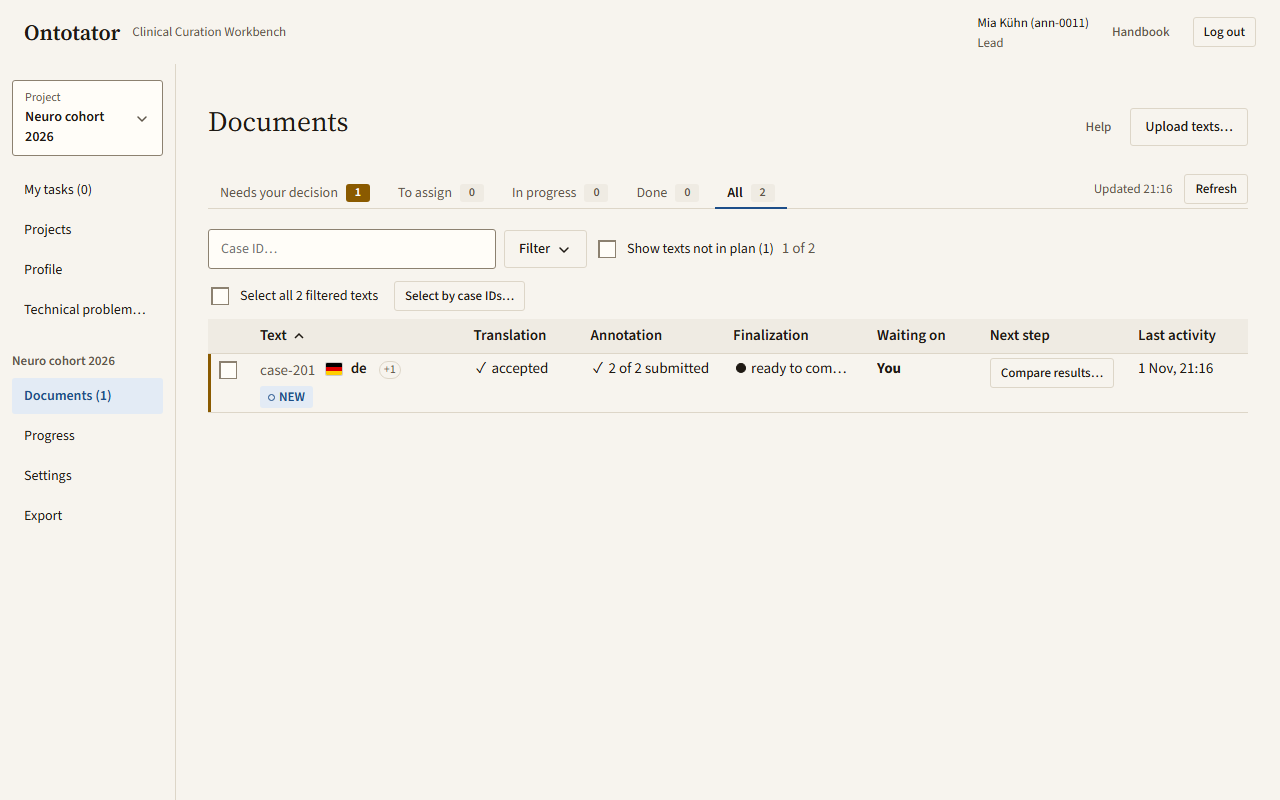
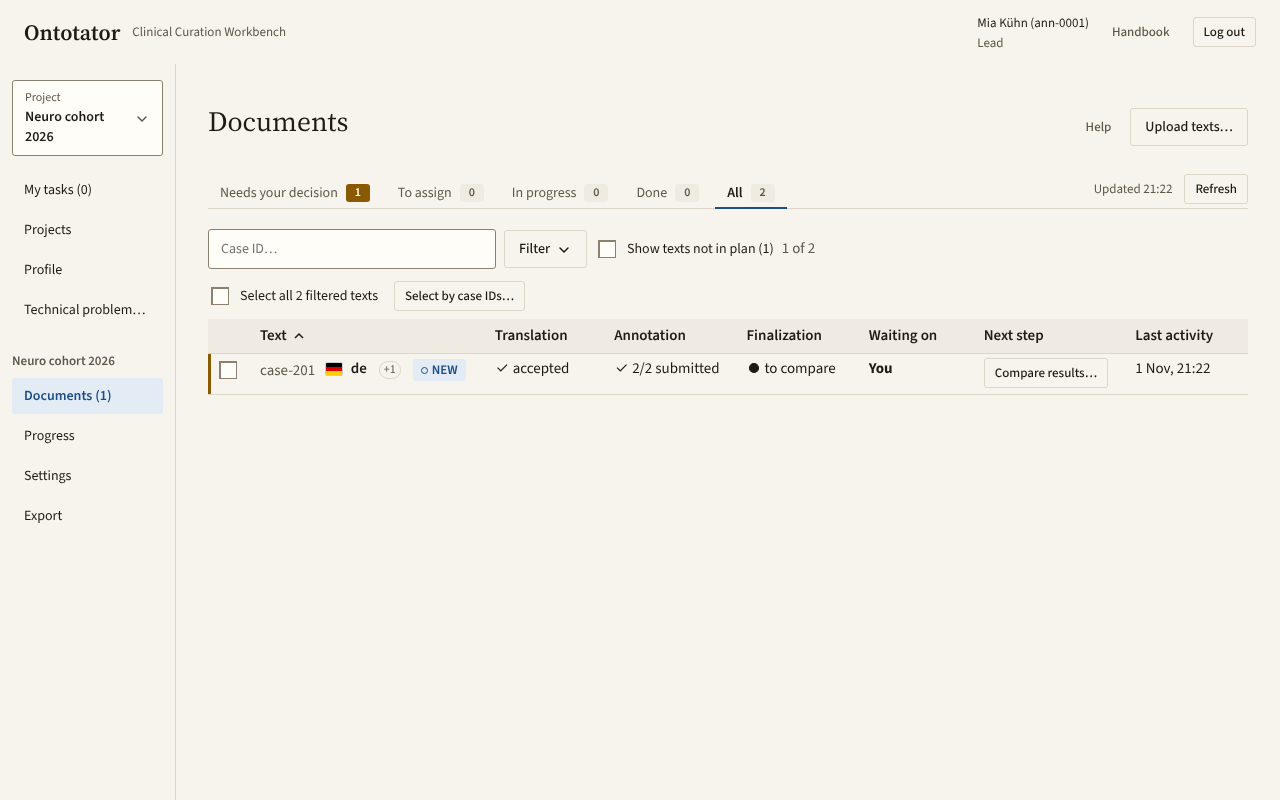
fix(documents): keep every stage state and the text on one line below 1400 px
Every stage state a cell can show that would be cut in the narrow table
now has a short form from one tested mapping (narrowStageState), for
example "1/2 submitted", "to compare" or "on old text"; the title and
screen readers keep the full state as before. The Text cell no longer
wraps "source", the version marker or NEW below the name.

The Annotation count reads "2 of 3 submitted" instead of "2 of 1
submitted" when more people hold a text than "annotators per text"
allows, after the limit was lowered.

The handbook describes the narrow table; its Documents image is
regenerated.

Refs #248

Claude-Session: https://claude.ai/code/session_01DuTmFwNVVtZwP5FB3Y4NFc

diff --git a/frontend/src/documents/stageLabels.ts b/frontend/src/documents/stageLabels.ts
@@ -75,6 +75,39 @@ export function startedPart(detail: StageCellView["detail"]): string | null {
   return state === "none" ? "not started" : `${detail.started ?? 0} of ${detail.open_tasks ?? 0} started`;
 }
 
+/**
+ * "2 of 3 submitted": out of "annotators per text", or out of everyone holding the text when more do (the limit was
+ * lowered after they were assigned), never "2 of 1 submitted". `open` counts the annotate tasks still open.
+ */
+export function submittedOf(submitted: number, total: number, open = 0): string {
+  return `${submitted} of ${Math.max(total, submitted + open)} submitted`;
+}
+
+/**
+ * Shorter words for a stage cell of the narrow table (below 1400 px, issue 248), so the cell keeps one line without
+ * cutting the state; the title and screen readers keep the full state. Only states longer than the narrow cell
+ * have one.
+ */
+const NARROW_STATES: readonly (readonly [RegExp, string])[] = [
+  [/^assigned, not started$/, "not started"],
+  [/^(?:after translation review|waiting for review \(.*\))$/, "after review"],
+  [/^in review, .+$/, "in review"],
+  [/^(\d+) of (\d+) submitted(?:, .+)?$/, "$1/$2 submitted"],
+  [/^(\d+) annotators? · max (\d+)$/, "$1 · max $2"],
+  [/^not reviewed, optional$/, "not reviewed"],
+  [/^(?:Final is|In progress|Submitted|Finishing) on old text$/, "on old text"],
+  [/^Submitted on (v\d+)$/, "$1 submitted"],
+  [/^Finishing on (v\d+)$/, "finishing $1"],
+  [/^ready to compare$/, "to compare"],
+  [/^consolidating \(.+\)$/, "consolidating"],
+];
+
+/** The narrow table's short state (`NARROW_STATES`); null when the state fits as it is. */
+export function narrowStageState(state: string): string | null {
+  for (const [pattern, short] of NARROW_STATES) if (pattern.test(state)) return state.replace(pattern, short);
+  return null;
+}
+
 /** The short form of a person in a cell: the display name, else the pseudonym. */
 export function shortName(person: PersonRefView): string {
   return person.display_name?.trim() || person.pseudonym;
@@ -173,7 +206,7 @@ function annotationText(cell: StageCellView): StageText {
     }
     case "in_progress": {
       if (detail.total != null && detail.submitted != null) {
-        return { symbol: "◐", word: `${detail.submitted} of ${detail.total} submitted`, detail: join(people && `waiting: ${people}`, startedPart(detail), waiting) };
+        return { symbol: "◐", word: submittedOf(detail.submitted, detail.total, detail.open_tasks ?? detail.people?.length), detail: join(people && `waiting: ${people}`, startedPart(detail), waiting) };
       }
       const change = detail.note === "may_change" ? join(version(detail.version), "may change") : null;
       const started = startedOf(detail);
@@ -189,7 +222,7 @@ function annotationText(cell: StageCellView): StageText {
     case "finishing_on_old":
       return { symbol: "◐", word: `Finishing on ${version(detail.from_version) ?? "old text"}`, detail: join(people, `carried to ${version(detail.version) ?? "the new text"} on submit`) };
     case "submitted": {
-      const word = detail.total != null && detail.submitted != null ? `${detail.submitted} of ${detail.total} submitted` : "submitted";
+      const word = detail.total != null && detail.submitted != null ? submittedOf(detail.submitted, detail.total) : "submitted";
       return { symbol: "✓", word, detail: join(people, detail.findings != null ? plural(detail.findings, "finding") : null, waiting) };
     }
     default: return fallback(cell);

diff --git a/frontend/tests/documents/stageLabels.test.ts b/frontend/tests/documents/stageLabels.test.ts
@@ -1,7 +1,7 @@
 // @vitest-environment node
 import { describe, expect, it } from "vitest";
 import type { DocumentRowView, StageCellView } from "../../src/api/client";
-import { STAGE_TITLES, stageText, versionMarkerText, waitingOnText, type StageName } from "../../src/documents/stageLabels";
+import { narrowStageState, STAGE_TITLES, stageText, submittedOf, versionMarkerText, waitingOnText, type StageName } from "../../src/documents/stageLabels";
 import { notInPlanRow, row, stepOf } from "./fixtures";
 import { ana, cell, luc, tom } from "./tableFixtures";
 
@@ -99,6 +99,57 @@ describe("Annotation cell", () => {
   it("submitted", () => {
     expect(text("annotation", cell("submitted", "done", { people: [ana, tom], submitted: 2, total: 2 }))).toEqual(["✓ 2 of 2 submitted", "Ana Weber, Tom Reis"]);
     expect(text("annotation", cell("submitted", "done", { people: [ana], findings: 3, version: 1 }))).toEqual(["✓ submitted", "Ana Weber, 3 findings"]);
+  });
+  it("counts everyone holding the text when the limit was lowered later, never 2 of 1 (issue 248)", () => {
+    expect(text("annotation", cell("in_progress", "running", { people: [tom], submitted: 2, total: 1, started: 0, open_tasks: 1 }))[0]).toBe("◐ 2 of 3 submitted");
+    expect(text("annotation", cell("in_progress", "running", { people: [tom], submitted: 2, total: 1 }))[0]).toBe("◐ 2 of 3 submitted");
+    expect(text("annotation", cell("submitted", "done", { submitted: 2, total: 1 }))[0]).toBe("✓ 2 of 2 submitted");
+    expect(submittedOf(1, 2, 1)).toBe("1 of 2 submitted");
+  });
+});
+
+describe("narrow table states (issue 248)", () => {
+  // Every state a stage cell of the table can show (cardModel's states and the stage cell labels it falls back to).
+  const states: Record<string, string | null> = {
+    "assigned, not started": "not started",
+    "after translation review": "after review",
+    "waiting for review (Ana Weber, Tom Reis)": "after review",
+    "in review": null,
+    "in review, 1 of 2 started": "in review",
+    "1 of 2 submitted": "1/2 submitted",
+    "1 of 1 submitted, not started": "1/1 submitted",
+    "0 of 2 submitted, 1 of 2 started": "0/2 submitted",
+    "1 annotator · max 2": "1 · max 2",
+    "2 annotators · max 5": "2 · max 5",
+    "2 · full": null,
+    "not reviewed, optional": "not reviewed",
+    "Final is on old text": "on old text",
+    "In progress on old text": "on old text",
+    "Submitted on v1": "v1 submitted",
+    "Submitted on old text": "on old text",
+    "Finishing on v2": "finishing v2",
+    "ready to compare": "to compare",
+    "ready to accept": null,
+    "consolidating (3 of 5 groups open)": "consolidating",
+    "consolidating": null,
+    "can be accepted": null,
+    "accepted 18 Oct": null,
+    "may be outdated": null,
+    "source text": null,
+    "Unassigned": null,
+    "not in plan": null,
+    "Check failed": null,
+    "Source changed": null,
+    "Your choice": null,
+    "waiting": null,
+  };
+  it.each(Object.entries(states))("%s", (state, short) => expect(narrowStageState(state)).toBe(short));
+  it("a state stays only when it fits the narrow cell (15 characters); short forms have at most 13", () => {
+    for (const state of Object.keys(states)) {
+      const shown = narrowStageState(state) ?? state;
+      expect(shown.length, state).toBeLessThanOrEqual(15);
+      if (narrowStageState(state)) expect(shown.length, state).toBeLessThanOrEqual(13);
+    }
   });
 });
 

diff --git a/frontend/src/documents/RowCells.tsx b/frontend/src/documents/RowCells.tsx
@@ -20,7 +20,7 @@ import {
   versionName,
   versionText,
 } from "./labels";
-import { isActiveRow, shortName, stageText, versionMarkerText, waitingOnText, type StageName } from "./stageLabels";
+import { isActiveRow, narrowStageState, shortName, stageText, versionMarkerText, waitingOnText, type StageName } from "./stageLabels";
 import { annotationState, finalizationState, reviewWord, translationState } from "./textCard/cardModel";
 import { LanguageFlag } from "../ui/LanguageTag";
 import { StageSymbol, type StageTone } from "../ui/StageCell";
@@ -306,12 +306,6 @@ function rowStageGlyph(row: DocumentRowView, stage: StageName, state: string): {
   return { symbol: stageText(stage, cell, row).symbol, tone: cell.tone };
 }
 
-/** Shorter words for a narrow table (issue 248), so a cell stays one line without cutting the state. */
-const NARROW_STATE: Record<string, string> = {
-  "assigned, not started": "not started",
-  "after translation review": "after review",
-};
-
 /**
  * One stage cell of the row on one line: glyph, the card's short state and a short "who" in grey, cut with an
  * ellipsis; `title` holds the full text. Rows outside the plan are muted (VD1). The Annotation cell adds the robot icon.
@@ -326,14 +320,16 @@ export function RowStageCell({ row, stage }: { row: DocumentRowView; stage: Stag
   // Annotators named in the cell have not submitted yet; "(Ben)" after "1 of 2 submitted" read like Ben had.
   const suffix = !who ? "" : stage === "annotation" ? ` · open: ${who}` : ` (${who})`;
   const full = state + suffix;
+  // Below 1400 px (issue 248) a shorter state where the full one would be cut.
+  const narrow = narrowStageState(state);
   const className = ["documents-status", "stage-cell", `stage-cell--${tone}`, !isActiveRow(row) && "stage-cell--muted"].filter(Boolean).join(" ");
   return <span className="documents-status-cell">
     <span className={className} title={full}>
       {symbol && <><StageSymbol symbol={symbol} />{" "}</>}
-      {NARROW_STATE[state] ? <span className="stage-state-wide">{state}</span> : state}
+      {narrow ? <span className="stage-state-wide">{state}</span> : state}
       {suffix && <span className="documents-status-who">{suffix}</span>}
       {/* After the full text, so the cell's text still reads "assigned, not started (Ana Weber)". */}
-      {NARROW_STATE[state] && <span className="stage-state-narrow" aria-hidden="true">{NARROW_STATE[state]}</span>}
+      {narrow && <span className="stage-state-narrow" aria-hidden="true">{narrow}</span>}
     </span>
     {stage === "annotation" && <ProposalsIcon row={row} />}
   </span>;

diff --git a/frontend/tests/documents/documentsTable.test.tsx b/frontend/tests/documents/documentsTable.test.tsx
@@ -264,7 +264,9 @@ describe("cells", () => {
       expect(status).not.toBeNull();
       expect(status.querySelector("button, br, p, div")).toBeNull();
       // The glyph is text (✓) or an SVG circle (no text); either way one space follows it.
-      const visible = (status.textContent ?? "").replace(/^\S*\s/, "");
+      // The narrow table's short state (aria-hidden, after the full one) is not part of it.
+      const narrow = status.querySelector(".stage-state-narrow")?.textContent ?? "";
+      const visible = (status.textContent ?? "").replace(/^\S*\s/, "").slice(0, narrow ? -narrow.length : undefined);
       expect(status.getAttribute("title")).toBe(visible);
     }
     // The card's short states (cardModel), the "who" in grey.
@@ -287,6 +289,25 @@ describe("cells", () => {
     const status = (index: number) => cellsOf("case-106 de")[index].querySelector<HTMLElement>(".documents-status")!;
     expect(status(2).getAttribute("title")).toBe("assigned, not started (Ana Weber)");
     expect(status(3).getAttribute("title")).toBe("assigned, not started · open: Tom Reis");
+  });
+
+  it("a narrow table shows a short state, aria-hidden; the full state stays in the title and for screen readers (issue 248)", () => {
+    const old = stagedRow("case-106", "de", {
+      stages: {
+        review: cell("accepted", "done", { note: "unchanged" }),
+        annotation: cell("submitted", "done", { people: [tom], submitted: 1, total: 1 }),
+        final: cell("old_text", "decision", { people: [tom], version: 1 }),
+      },
+    });
+    renderTable(page([group("case-106", [old])]));
+    const final = cellsOf("case-106 de")[4].querySelector<HTMLElement>(".documents-status")!;
+    expect(final.getAttribute("title")).toBe("Final is on old text");
+    expect(final.querySelector(".stage-state-wide")!.textContent).toBe("Final is on old text");
+    const short = final.querySelector(".stage-state-narrow")!;
+    expect(short.textContent).toBe("on old text");
+    expect(short.getAttribute("aria-hidden")).toBe("true");
+    // A state that fits has no short form.
+    expect(cellsOf("case-106 de")[2].querySelector(".stage-state-narrow")).toBeNull();
   });
 
   it("a running consolidation: Annotation done once all submitted, Finalization running; waiting always has its circle", () => {

diff --git a/frontend/src/documents/textCard/cardModel.ts b/frontend/src/documents/textCard/cardModel.ts
@@ -3,7 +3,7 @@ import type { DocumentRowView } from "../../api/client";
 import type { ProjectDocumentsQuery, Route } from "../../app/router";
 import type { PathSegment, PathTone } from "../../ui/StagePath";
 import { earlyFinal } from "../finalPanelText";
-import { annotatorCount, shortName, stageText, startedOf, startedPart } from "../stageLabels";
+import { annotatorCount, shortName, stageText, startedOf, startedPart, submittedOf } from "../stageLabels";
 
 export type SegmentId = "translation" | "annotation" | "finalization";
 export type CardView = "path" | "history" | "details";
@@ -55,7 +55,10 @@ export function annotationState(row: DocumentRowView): State {
   const work = (row.work ?? []).filter(item => item.task === "annotate" && item.moved_to_version == null);
   const total = detail.total ?? detail.target ?? work.length;
   const done = detail.submitted ?? work.filter(item => item.status === "submitted").length;
-  const submitted = total > 0 ? `${done} of ${total} submitted` : cell?.state === "in_progress" || cell?.state === "paused" ? "in progress" : "submitted";
+  const working = cell?.state === "in_progress" || cell?.state === "paused";
+  // Open tasks count too: more people than "annotators per text" hold the text when the limit was lowered later.
+  const open = working ? detail.open_tasks ?? detail.people?.length ?? 0 : 0;
+  const submitted = total > 0 ? submittedOf(done, total, open) : working ? "in progress" : "submitted";
   // Issue 258: assigned annotators who have not saved anything yet.
   const started = cell?.state === "in_progress" ? startedOf(detail) : "all";
   const running = started === "none" && done === 0 ? "assigned, not started"

diff --git a/frontend/src/styles/screens/documents-table.css b/frontend/src/styles/screens/documents-table.css
@@ -61,6 +61,9 @@
 button.documents-more { background: transparent; font-family: inherit; cursor: pointer; }
 button.documents-more:hover { border-color: var(--text-muted); color: var(--text); }
 .documents-row-header { display: flex; flex-wrap: wrap; align-items: center; gap: var(--space-1) var(--space-3); font-weight: var(--weight-regular); }
+/* In the table the Text cell keeps one line (issue 248): "source", the version marker and NEW stay after the name
+   instead of wrapping below it; the cards below 700 px still wrap. */
+.documents-table .documents-row-header { flex-wrap: nowrap; }
 .documents-language { display: inline-flex; align-items: center; gap: var(--space-1); font-weight: var(--weight-strong); }
 /* Row header name: a focus target of deep links and "Next decision"; in the table a button in plain
    text style (not a link) that opens the text card. */
@@ -87,7 +90,7 @@ button.documents-text-name { min-height: 24px; padding: 0; border: 0; background
 /* Below 1400 px (#10): the status and Waiting on cells cut earlier (ellipsis, full text in title); Last activity
    stays and the table scrolls sideways with the Text column pinned (#8). */
 @media (max-width: 1399px) {
-  .documents-status-cell { max-width: 7.5rem; }
+  .documents-status-cell { max-width: 7.5rem; column-gap: var(--space-1); }
   .documents-waiting-on { max-width: 7rem; }
   /* Issue 248: one line per text stays; the narrow cells drop what Waiting on already says. The grey "who" of a
      stage cell goes (it stays in the title), and Waiting on shows one name and "+n" for the others. */

diff --git a/frontend/tests/documents/cardModel.test.ts b/frontend/tests/documents/cardModel.test.ts
@@ -64,6 +64,11 @@ describe("Annotation", () => {
     expect(annotationState(cardRow({ annotation: cell("in_progress", "running", { submitted: 1, total: 2, started: 0, open_tasks: 1 }) })))
       .toEqual({ state: "1 of 2 submitted, not started", tone: "now" });
   });
+  it("counts everyone holding the text when the limit was lowered later, never 2 of 1 (issue 248)", () => {
+    expect(annotationState(cardRow({ annotation: cell("in_progress", "running", { people: [ana], submitted: 2, total: 1, started: 0, open_tasks: 1 }) })))
+      .toEqual({ state: "2 of 3 submitted, not started", tone: "now" });
+    expect(annotationState(cardRow({ annotation: cell("submitted", "done", { submitted: 2, total: 1 }) }))).toEqual({ state: "2 of 2 submitted", tone: "done" });
+  });
   it("without server counts counts the annotate work items, never 0 of 0", () => {
     const work = [annotateItem({ assignment_id: 1, status: "submitted" }), annotateItem({ assignment_id: 2, status: "submitted" })];
     expect(annotationState(cardRow({ annotation: cell("submitted", "done") }, { work }))).toEqual({ state: "2 of 2 submitted", tone: "done" });

diff --git a/docs/handbook/lead-documents.md b/docs/handbook/lead-documents.md
@@ -76,13 +76,13 @@ The **Documents** page lists every text of the project and what it needs next. O
 | Column or mark | Meaning |
 | --- | --- |
 | **Text** | The case ID, the language, the text version and a **NEW** badge for texts that are new since your last visit. |
-| **Translation**, **Annotation**, **Finalization** | The state of each stage, with the names of the people involved. |
+| **Translation**, **Annotation**, **Finalization** | The state of each stage, with the names of the people involved. Below 1400 px width the state is shorter and the names are left out; see [On a narrow screen](#on-a-narrow-screen). |
 | Robot icon | The text has tool proposals. |
 | **Waiting on** | Who the text waits for. **You** in bold means it waits for you. |
 | **Next step** | A button for the next action on this text, for example **Assign annotation…**, **Accept result…** or, when submissions differ, **Compare results…**. Rows that need your decision also have a coloured left edge. |
 | **Last activity** | When something last happened on the text. |
 
-A task starts with the person's first saved change; opening it is not enough, and neither is ticking checked sentences in a translation review. Until then **Translation** and **Annotation** read *assigned, not started* with the person's name, in the table, its tooltip, the narrow cards and the text card, where the person's row shows **Not started**. After the first save they read *in review* or *In progress*. With several people or parallel versions the cell counts them, for example *1 of 2 started*.
+A task starts with the person's first saved change; opening it is not enough, and neither is ticking checked sentences in a translation review. Until then **Translation** and **Annotation** read *assigned, not started* with the person's name, in the table (*not started* without the name below 1400 px), its tooltip, the narrow cards and the text card, where the person's row shows **Not started**. After the first save they read *in review* or *In progress*. With several people or parallel versions the cell counts them, for example *1 of 2 started*.
 
 ### Use the Documents tabs
 
@@ -132,6 +132,12 @@ Active filters show as chips above the table. Remove one with its ✕, or click 
 - Below the table, click **Next** or **Previous** to see more rows.
 
 ### On a narrow screen
+
+Below 1400 px width each text keeps one line in the table, and the table scrolls sideways with the **Text** column kept at the left:
+
+- The stage columns show a shorter state and leave out the names, which **Waiting on** already shows. For example *assigned, not started (Ana Weber)* reads *not started*, *1 of 2 submitted* reads *1/2 submitted*, *ready to compare* reads *to compare* and *Final is on old text* reads *on old text*.
+- **Waiting on** shows one name and *+n* for the others.
+- Point at a cell to see the full state with the names in its tooltip. Screen readers read the full state.
 
 Below 700 px width, each case is a card with its texts. Click a stage status to see the latest activity and the actions for that stage. Click **Details** to open the full text card.
 

diff --git a/CHANGELOG.md b/CHANGELOG.md
@@ -14,6 +14,7 @@ The format is based on [Keep a Changelog](https://keepachangelog.com/en/1.1.0/),
 ### Fixed
 
 - Documents below 1400 px: the stage cells keep one line per text without cutting the state. They leave out the names that **Waiting on** already shows and read *not started* or *after review*; **Waiting on** shows one name and *+n*. The tooltip and screen readers keep the full text (#248).
+- Documents below 1400 px: every stage state that would be cut has a short form, for example *1/2 submitted*, *to compare* or *on old text*, and the **Text** cell keeps *source*, the version marker and **NEW** on the same line at every table width. The Annotation count no longer reads *2 of 1 submitted* when more people hold a text than *annotators per text* allows after the limit was lowered; it counts them all (#248).
 - A change of pins or profile, such as a move to another ontology release, no longer deletes the project's search conditions and captured translation files. Searches and submitted selections made before the change stay resolvable; the ended conditions go into the `project.update` audit entry. Changes made before this version cannot be recovered (#254).
 
 ## [0.7.0] - 2026-11-01
